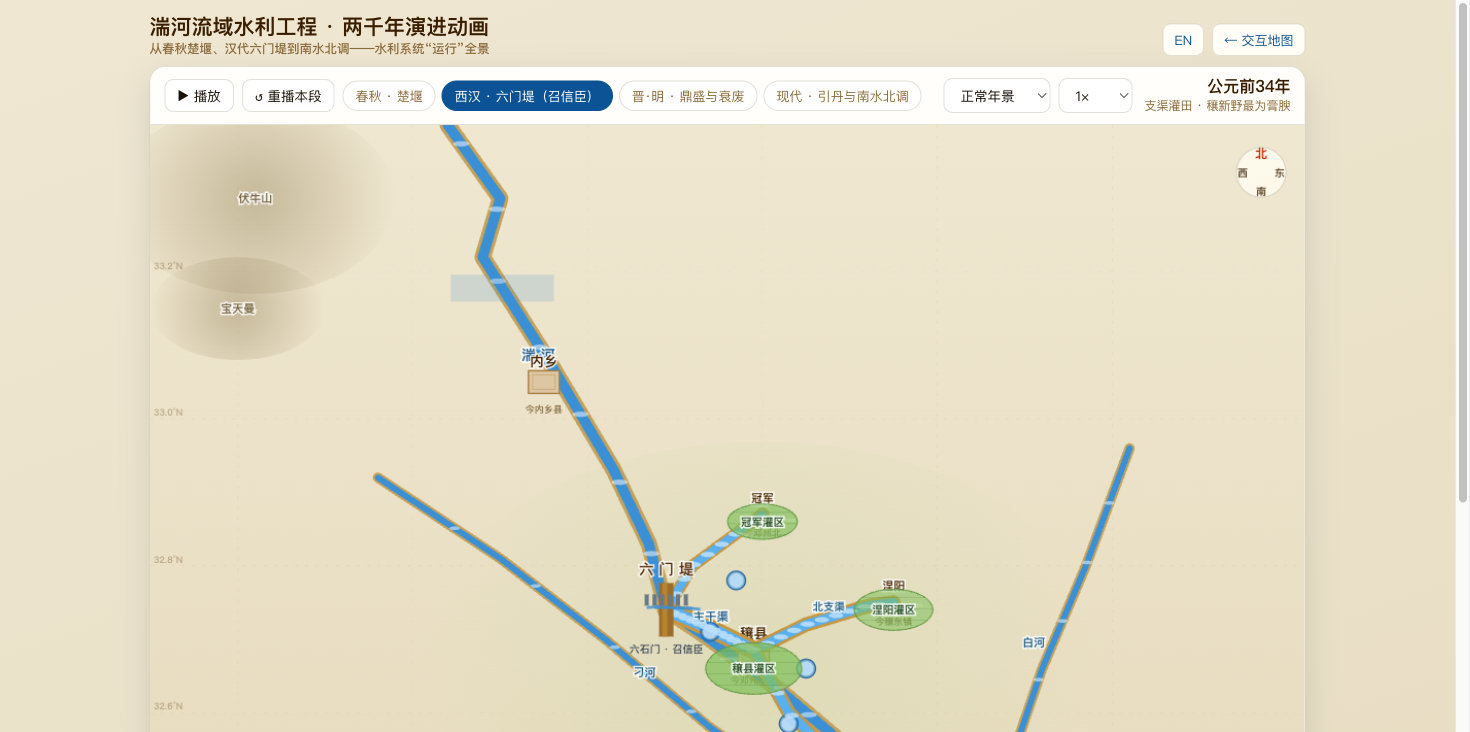
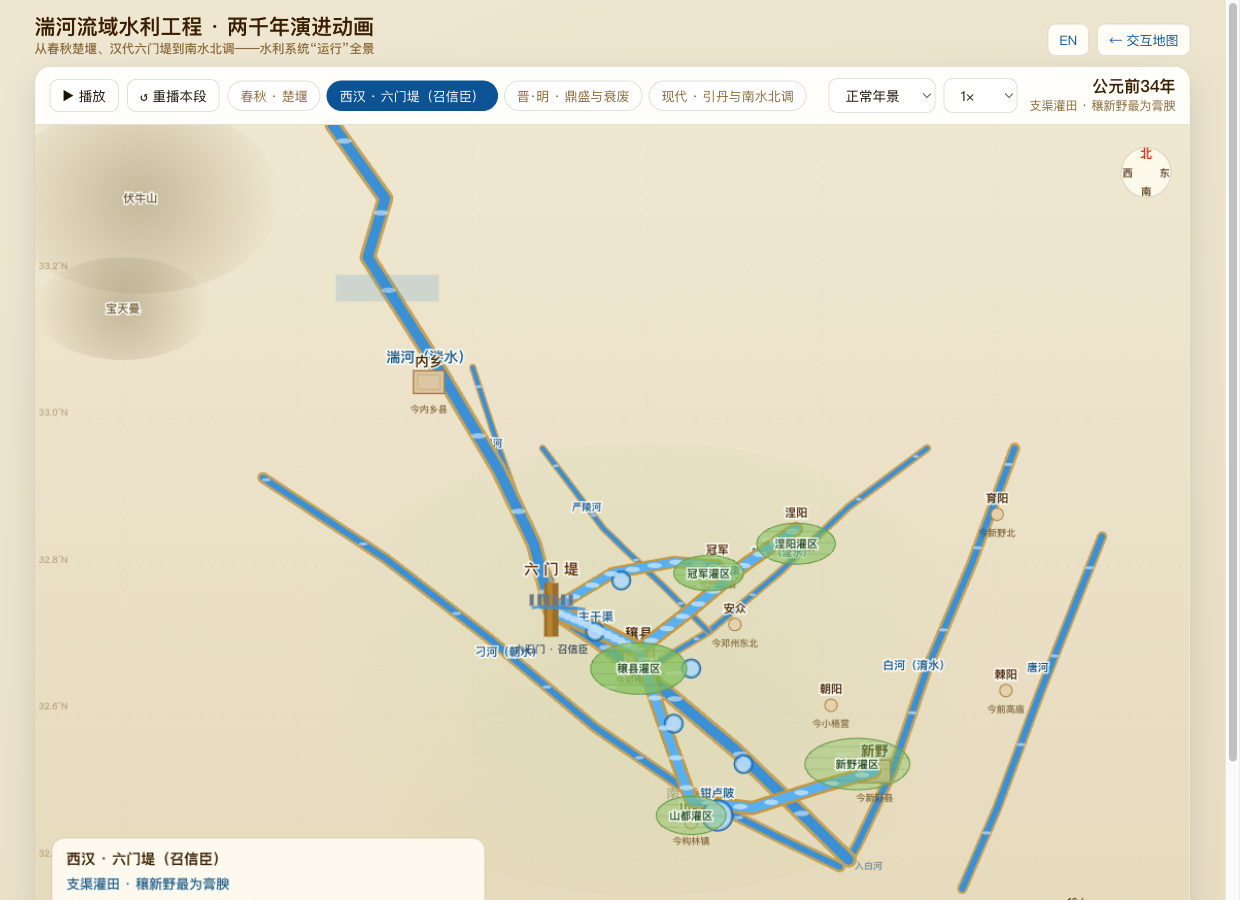
Add more ancient places & rivers to the animation map
Enrich demo.html with additional historically-attested features, placed
from gazetteer "故城今地" locations and made era-aware:

- Ancient counties: add 安众, 朝阳, 棘阳, 育阳 (Han 南阳郡) and 邓/古邓国
  (Spring & Autumn, contested — Linba option), and correct the positions
  of 涅阳 (穰东镇), 冠军 (张村镇) and 山都 (构林镇).
- Cities now show per era: Spring & Autumn renders only the continuous
  anchors + 古邓国; Han/Jin–Ming render the full set of imperial counties;
  Modern renders just 邓州/内乡/新野.
- Tributary rivers: add 赵河(涅水), 严陵河, 默河 (left-bank of the Tuan) and
  the eastern 唐河; show ancient names for the main rivers
  (湍河/湍水, 刁河/朝水, 白河/淯水).
- Re-route the Han branch canals & irrigation districts to the corrected
  town positions. Refresh the README preview image.

diff --git a/demo.html b/demo.html
@@ -118,14 +118,27 @@ const TUAN = [[111.74,33.40],[111.80,33.30],[111.78,33.22],[111.86,33.07],[111.9
   [111.97,32.83],[111.99,32.74],[112.04,32.70],[112.12,32.63],[112.20,32.55],[112.27,32.47],[112.33,32.40]];
 const DIAO = [[111.66,32.92],[111.80,32.81],[111.92,32.70],[112.04,32.58],[112.15,32.49],[112.25,32.43],[112.32,32.39]];
 const BAI  = [[112.52,32.96],[112.47,32.80],[112.42,32.66],[112.38,32.52],[112.34,32.42],[112.33,32.40]];
+// tributaries (left-bank of the Tuan, + eastern Tang R.)
+const ZHAO    = [[112.42,32.96],[112.33,32.88],[112.25,32.79],[112.17,32.71],[112.10,32.66]]; // 赵河(古涅水) → 湍河
+const YANLING = [[111.98,32.96],[112.05,32.85],[112.12,32.77],[112.17,32.71]];                 // 严陵河 → 赵河/湍河
+const MO      = [[111.90,33.07],[111.93,32.96],[111.96,32.86],[111.99,32.78]];                 // 默河 → 湍河 (内乡)
+const TANG    = [[112.62,32.84],[112.55,32.63],[112.50,32.47],[112.46,32.36]];                 // 唐河 (东缘)
 
+// show = eras in which the place is labelled. ALLERA = continuous settlements;
+// IMP = Han→imperial counties; CHU = pre-imperial. (Names are era-appropriate.)
+const ALLERA=['chu','han','jinming','modern'], IMP=['han','jinming'];
 const CITIES = [
-  { lon:112.09, lat:32.68, major:true,  zh:'穰县', en:'Rang', sub_zh:'今邓州市区', sub_en:'Dengzhou city' },
-  { lon:111.85, lat:33.05, major:true,  zh:'内乡', en:'Neixiang', sub_zh:'今内乡县', sub_en:'Neixiang' },
-  { lon:112.36, lat:32.52, major:true,  zh:'新野', en:'Xinye', sub_zh:'今新野县', sub_en:'Xinye' },
-  { lon:112.25, lat:32.75, major:false, zh:'涅阳', en:'Nieyang', sub_zh:'今穰东镇', sub_en:'Rangdong' },
-  { lon:112.20, lat:32.43, major:false, zh:'山都', en:'Shandu', sub_zh:'今构林镇', sub_en:'Goulin' },
-  { lon:112.10, lat:32.87, major:false, zh:'冠军', en:'Guanjun', sub_zh:'今邓州北', sub_en:'N. Dengzhou' },
+  { lon:112.09, lat:32.68, major:true,  show:ALLERA, zh:'穰县', en:'Rang',     sub_zh:'今邓州市区', sub_en:'Dengzhou' },
+  { lon:111.85, lat:33.05, major:true,  show:ALLERA, zh:'内乡', en:'Neixiang', sub_zh:'今内乡县',   sub_en:'Neixiang' },
+  { lon:112.36, lat:32.52, major:true,  show:ALLERA, zh:'新野', en:'Xinye',    sub_zh:'今新野县',   sub_en:'Xinye' },
+  { lon:112.27, lat:32.85, major:false, show:IMP, zh:'涅阳', en:'Nieyang',  sub_zh:'今穰东镇',     sub_en:'Rangdong' },
+  { lon:112.18, lat:32.80, major:false, show:IMP, zh:'冠军', en:'Guanjun',  sub_zh:'今张村镇',     sub_en:'Zhangcun' },
+  { lon:112.20, lat:32.72, major:false, show:IMP, zh:'安众', en:'Anzhong',  sub_zh:'今邓州东北',   sub_en:'NE Dengzhou' },
+  { lon:112.31, lat:32.61, major:false, show:IMP, zh:'朝阳', en:'Zhaoyang', sub_zh:'今小杨营',     sub_en:'Xiaoyangying' },
+  { lon:112.15, lat:32.45, major:false, show:IMP, zh:'山都', en:'Shandu',   sub_zh:'今构林镇',     sub_en:'Goulin' },
+  { lon:112.51, lat:32.63, major:false, show:IMP, zh:'棘阳', en:'Jiyang',   sub_zh:'今前高庙',     sub_en:'Qiangaomiao' },
+  { lon:112.50, lat:32.87, major:false, show:IMP, zh:'育阳', en:'Yuyang',   sub_zh:'今新野北',     sub_en:'N. Xinye' },
+  { lon:111.82, lat:32.56, major:false, show:['chu'], zh:'邓（古邓国）', en:'Deng (anc.)', sub_zh:'今林扒·传', sub_en:'Linba (trad.)' },
 ];
 const MOUNTS = [
   { lon:111.52, lat:33.30, rl:0.16, rt:0.13, zh:'伏牛山', en:'Funiu Mts.' },
@@ -135,9 +148,9 @@ const MOUNTS = [
 /* Han Six-Gate system */
 const DIKE = { lon:111.99, lat:32.74 };                 // 六门堤 on the Tuan, NW of 穰城
 const C_MAIN = [[111.99,32.74],[112.04,32.715],[112.09,32.685]];          // 主干渠 → 穰城
-const C_N    = [[112.09,32.685],[112.15,32.72],[112.22,32.745],[112.25,32.75]]; // 北支 → 涅阳
-const C_S    = [[112.09,32.685],[112.13,32.60],[112.19,32.53],[112.30,32.51],[112.36,32.52]]; // 南支 → 山都/新野
-const C_NW   = [[111.99,32.74],[112.02,32.80],[112.10,32.87]];            // 北冠军渠
+const C_N    = [[112.09,32.685],[112.15,32.74],[112.21,32.80],[112.27,32.85]]; // 北支 → 涅阳
+const C_S    = [[112.09,32.685],[112.12,32.58],[112.15,32.48],[112.22,32.47],[112.30,32.50],[112.36,32.52]]; // 南支 → 山都/新野
+const C_NW   = [[111.99,32.74],[112.06,32.79],[112.13,32.805],[112.18,32.80]]; // 北冠军渠 → 冠军
 const C_SPILL= [[111.99,32.74],[111.93,32.80],[111.86,32.87],[111.80,32.93]]; // 分洪渠
 const PONDS_HAN = [ // 长藤结瓜 陂塘 (Han)
   {lon:112.04,lat:32.71},{lon:112.15,lat:32.66},{lon:112.13,lat:32.585},{lon:112.21,lat:32.53},
@@ -147,10 +160,10 @@ const PONDS_EXTRA = [ // added at Jin–Ming peak (29→38 陂)
   {lon:112.16,lat:32.71},{lon:112.06,lat:32.62},{lon:111.95,lat:32.70}];
 const FIELDS = [
   {lon:112.09,lat:32.66, rl:0.055,rt:0.035, on:0.66, zh:'穰县灌区',en:'Rang fields'},
-  {lon:112.25,lat:32.74, rl:0.045,rt:0.028, on:0.74, zh:'涅阳灌区',en:'Nieyang fields'},
+  {lon:112.27,lat:32.83, rl:0.045,rt:0.028, on:0.74, zh:'涅阳灌区',en:'Nieyang fields'},
   {lon:112.34,lat:32.53, rl:0.06, rt:0.035, on:0.80, zh:'新野灌区',en:'Xinye fields'},
-  {lon:112.20,lat:32.46, rl:0.04, rt:0.026, on:0.78, zh:'山都灌区',en:'Shandu fields'},
-  {lon:112.10,lat:32.86, rl:0.04, rt:0.024, on:0.70, zh:'冠军灌区',en:'Guanjun fields'},
+  {lon:112.15,lat:32.46, rl:0.04, rt:0.026, on:0.78, zh:'山都灌区',en:'Shandu fields'},
+  {lon:112.17,lat:32.79, rl:0.04, rt:0.024, on:0.70, zh:'冠军灌区',en:'Guanjun fields'},
 ];
 
 /* Chu Weir (Spring & Autumn) — stepped impoundments on the upper Tuan */
@@ -221,7 +234,7 @@ function txtS(s,x,y,sz,c,al='center'){ ctx.save(); ctx.font=`650 ${sz}px "PingFa
 function flow(P,n,sp,grow,c,off=0){ if(grow<=0)return; ctx.save(); for(let i=0;i<n;i++){ const b=((TICK*sp+off+i/n)%1); const pr=clamp(b/grow,0,1); if(b>grow)continue; const q=pathPt(P,b); ctx.fillStyle=c; ctx.globalAlpha=0.35+0.5*grow; ctx.beginPath(); ctx.ellipse(q.x,q.y,7,2.6,0,0,Math.PI*2); ctx.fill(); } ctx.globalAlpha=1; ctx.restore(); }
 
 /* ---------- Base scene (all eras) ---------- */
-function drawBase(modern){
+function drawBase(eraId){
   const bg=ctx.createLinearGradient(0,0,0,CH);
   bg.addColorStop(0,'#efe7d0'); bg.addColorStop(.55,'#eae0c6'); bg.addColorStop(1,'#e6dabb');
   ctx.fillStyle=bg; ctx.fillRect(0,0,CW,CH);
@@ -242,27 +255,32 @@ function drawBase(modern){
     txtS(L(m),c.x,c.y,11,'rgba(95,72,28,.85)'); });
   txt(lang==='zh'?'南 阳 盆 地':'Nanyang Basin', G(112.16,32.62).x, G(112.16,32.62).y+92, 13,'rgba(70,100,45,.4)','center');
 
-  // rivers
-  drawRiver(TUAN, true, lang==='zh'?'湍 河':'Tuan R.');
-  drawRiver(DIAO, false, lang==='zh'?'刁河':'Diao R.');
-  drawRiver(BAI, false, lang==='zh'?'白河':'Bai R.');
+  // rivers — eastern/secondary first, tributaries, then the Tuan on top
+  drawRiver(BAI,     lang==='zh'?'白河（淯水）':'Bai R. (Yushui)',     11,6,11, 0.55);
+  drawRiver(TANG,    lang==='zh'?'唐河':'Tang R.',                    10,6,10.5,0.40);
+  drawRiver(DIAO,    lang==='zh'?'刁河（朝水）':'Diao R. (Chaoshui)',  11,6,11, 0.45);
+  drawRiver(ZHAO,    lang==='zh'?'赵河（涅水）':'Zhao R.',             8,4,10,  0.50);
+  drawRiver(YANLING, lang==='zh'?'严陵河':'Yanling R.',               7,4,9.5, 0.35);
+  drawRiver(MO,      lang==='zh'?'默河':'Mo R.',                      7,4,9.5, 0.40);
+  drawRiver(TUAN,    lang==='zh'?'湍河（湍水）':'Tuan R. (Tuanshui)',  16,10,14,0.30);
   // confluence note (Xinye)
   const cf=G(112.33,32.40); txt(lang==='zh'?'入白河':'→ Bai R.', cf.x+6, cf.y+6, 9,'rgba(40,90,130,.7)');
 
-  drawCities();
+  drawCities(eraId);
   drawCompassScale();
 }
 function L(o){ return o[lang] || o.zh; }
-function drawRiver(arr, main, label){
+function drawRiver(arr, label, bankW, waterW, lsz, lpos=0.4){
   const P=pts(arr);
-  strokePts(P, main?16:10, '#c5a25a');           // bank
-  strokePts(P, main?10:6, '#3b8fd4');            // water
-  ctx.save(); for(let i=0;i<(main?12:7);i++){ const b=((TICK*0.08+i/(main?12:7))%1); const q=pathPt(P,b);
-    ctx.fillStyle='rgba(255,255,255,.5)'; ctx.beginPath(); ctx.ellipse(q.x,q.y,main?8:5,main?2.6:1.8,0,0,Math.PI*2); ctx.fill(); } ctx.restore();
-  const mp=pathPt(P,main?0.30:0.5); txtS(label, mp.x-14, mp.y-12, main?14:11, '#185a87','center');
+  strokePts(P, bankW, '#c5a25a');                // bank
+  strokePts(P, waterW, '#3b8fd4');               // water
+  const n=Math.max(4, Math.round(P.length*0.9));
+  ctx.save(); for(let i=0;i<n;i++){ const b=((TICK*0.08+i/n)%1); const q=pathPt(P,b);
+    ctx.fillStyle='rgba(255,255,255,.5)'; ctx.beginPath(); ctx.ellipse(q.x,q.y, waterW*0.72, Math.max(1.4,waterW*0.26),0,0,Math.PI*2); ctx.fill(); } ctx.restore();
+  const mp=pathPt(P,lpos); txtS(label, mp.x-8, mp.y-10, lsz, '#185a87','center');
 }
-function drawCities(){
-  CITIES.forEach(c=>{ const p=G(c.lon,c.lat);
+function drawCities(eraId){
+  CITIES.forEach(c=>{ if(c.show && !c.show.includes(eraId)) return; const p=G(c.lon,c.lat);
     ctx.save();
     if(c.major){ ctx.fillStyle='#dcc6a3'; ctx.strokeStyle='#a87c40'; ctx.lineWidth=1.4;
       ctx.beginPath(); ctx.rect(p.x-15,p.y-11,30,22); ctx.fill(); ctx.stroke();
@@ -485,7 +503,7 @@ function fmtYear(y){ const t=T(); return y<0 ? (lang==='zh'?`${t.bce}${-y}年`:`
 function render(){
   ctx.clearRect(0,0,CW,CH);
   const era=ERAS[eraIdx]; const a=enter;
-  drawBase(era.id==='modern');
+  drawBase(era.id);
   if(era.id==='chu') eraChu(p,a);
   else if(era.id==='han') eraHan(p,a,false);
   else if(era.id==='jinming') eraJinMing(p,a);